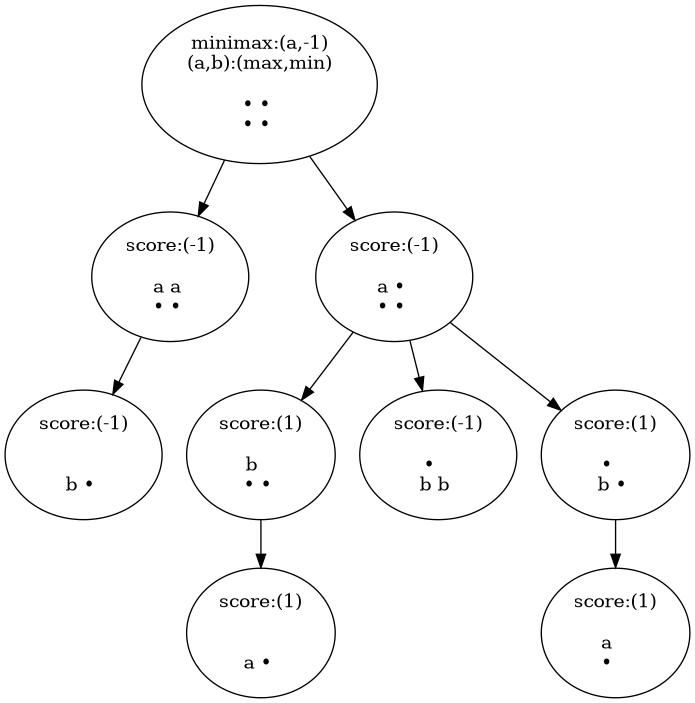
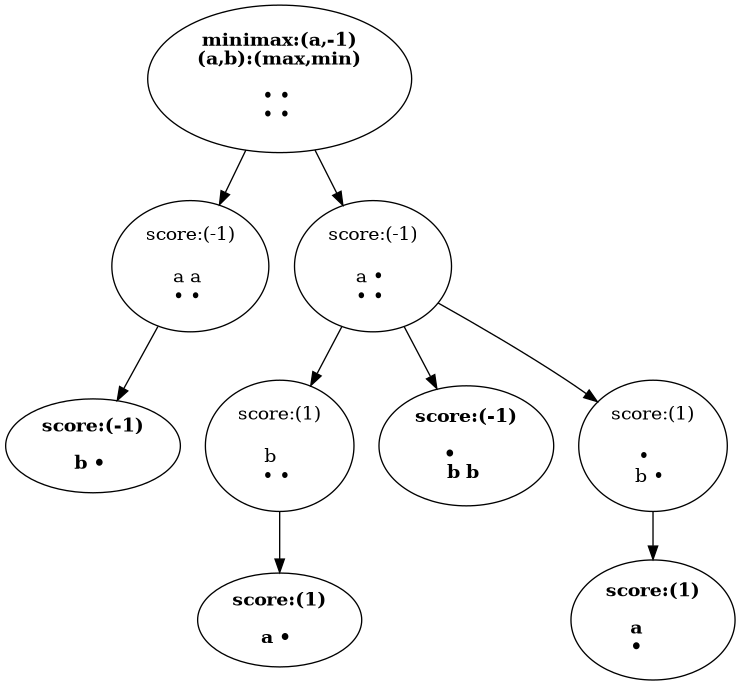
*shankar* improved visualization

diff --git a/src/structures/step.py b/src/structures/step.py
@@ -58,10 +58,14 @@ class Step:
     def ascii_score(self):
         if self.score:
             if self.action != None:
-                return "score:({})\n{}".format(self.score,
-                                                   self.ascii)
+                if self.state.is_terminal:
+                    return "<b>score:({})\n{}</b>".format(self.score,
+                                                          self.ascii)
+                else:
+                    return "score:({})\n{}".format(self.score,
+                                                          self.ascii)
             else:
-                return (("minimax:({},{})\n"+"(a,b):(max,min)\n"+
+                return (("<b>minimax:({},{})\n"+"(a,b):(max,min)</b>\n"+
                          "{}").format("a",
                                       self.score,
                                       self.ascii))

diff --git a/src/structures/tree.py b/src/structures/tree.py
@@ -65,7 +65,8 @@ class Tree:
 
     def print_in_file(self,base_dir="./img/",file_name="tree_test.png"):
         def to_label(n):
-            return 'label="%s"' % (n.name.ascii_score)
+            return 'label=<%s>' % (n.name.ascii_score.
+                                          replace("\n","<br/>\n"))
         UniqueDotExporter(self.root,nodeattrfunc=to_label).to_picture(base_dir+
                                                                       file_name)
 

diff --git a/src/game_definitions/game_def.py b/src/game_definitions/game_def.py
@@ -87,4 +87,7 @@ class GameNimDef(GameDef):
         new_line = (step.action.player+" ")*(n) + lines[p][:(self.max_number
                                                                -n*2)]
         lines[p] = new_line
+        for i,line in enumerate(lines):
+            if i != 0 and re.match(r'^\s*$', line):
+                del lines[i]
         return "\n".join(lines)

diff --git a/docs/shankar_todos.md b/docs/shankar_todos.md
@@ -3,15 +3,12 @@ Workflow to-do\'s
 
 ### Presentation
 
-1.  **TODO** perhaps better to export to dotfile first and
-    then edit/export via shell to png
+1.  **TODO** make nicer visualizations with more symmetric
+    faces
 
-2.  **TODO** make nicer visualizations with more symmetric
-    faces, issue of odd spacings in next steps due to old artifacts
+2.  **TODO** add dedicated modular html conversion functions
 
-3.  **TODO** add bold for terminal and root scores
-
-4.  save graphs as images, dotfiles and pickles to binary which can be
+3.  save graphs as images, dotfiles and pickles to binary which can be
     used later
 
 ### Monte-carlo tree search
@@ -24,17 +21,12 @@ Workflow to-do\'s
 
 ### Minimax algorithm
 
-1.  **TODO** update diff views after commits; best with
-    auto-created views
+1.  **TODO** add pydocstrings to all tree bits
 
-2.  **TODO** add pydocstrings to all tree bits
+2.  **TODO** review pull request which might require editing
+    of full~time~.lp encodings
 
-3.  **TODO** add pull request with new asp encodings for more
-    arbitrary examples, piles and exact solutions instead of symmetries,
-    get Susana\'s opinion which might require editing of full~time~.lp
-    encodings
-
-4.  check if possible to use reverse level iterator without list
+3.  check if possible to use reverse level iterator without list
     conversion
 
 ### Optimizations
